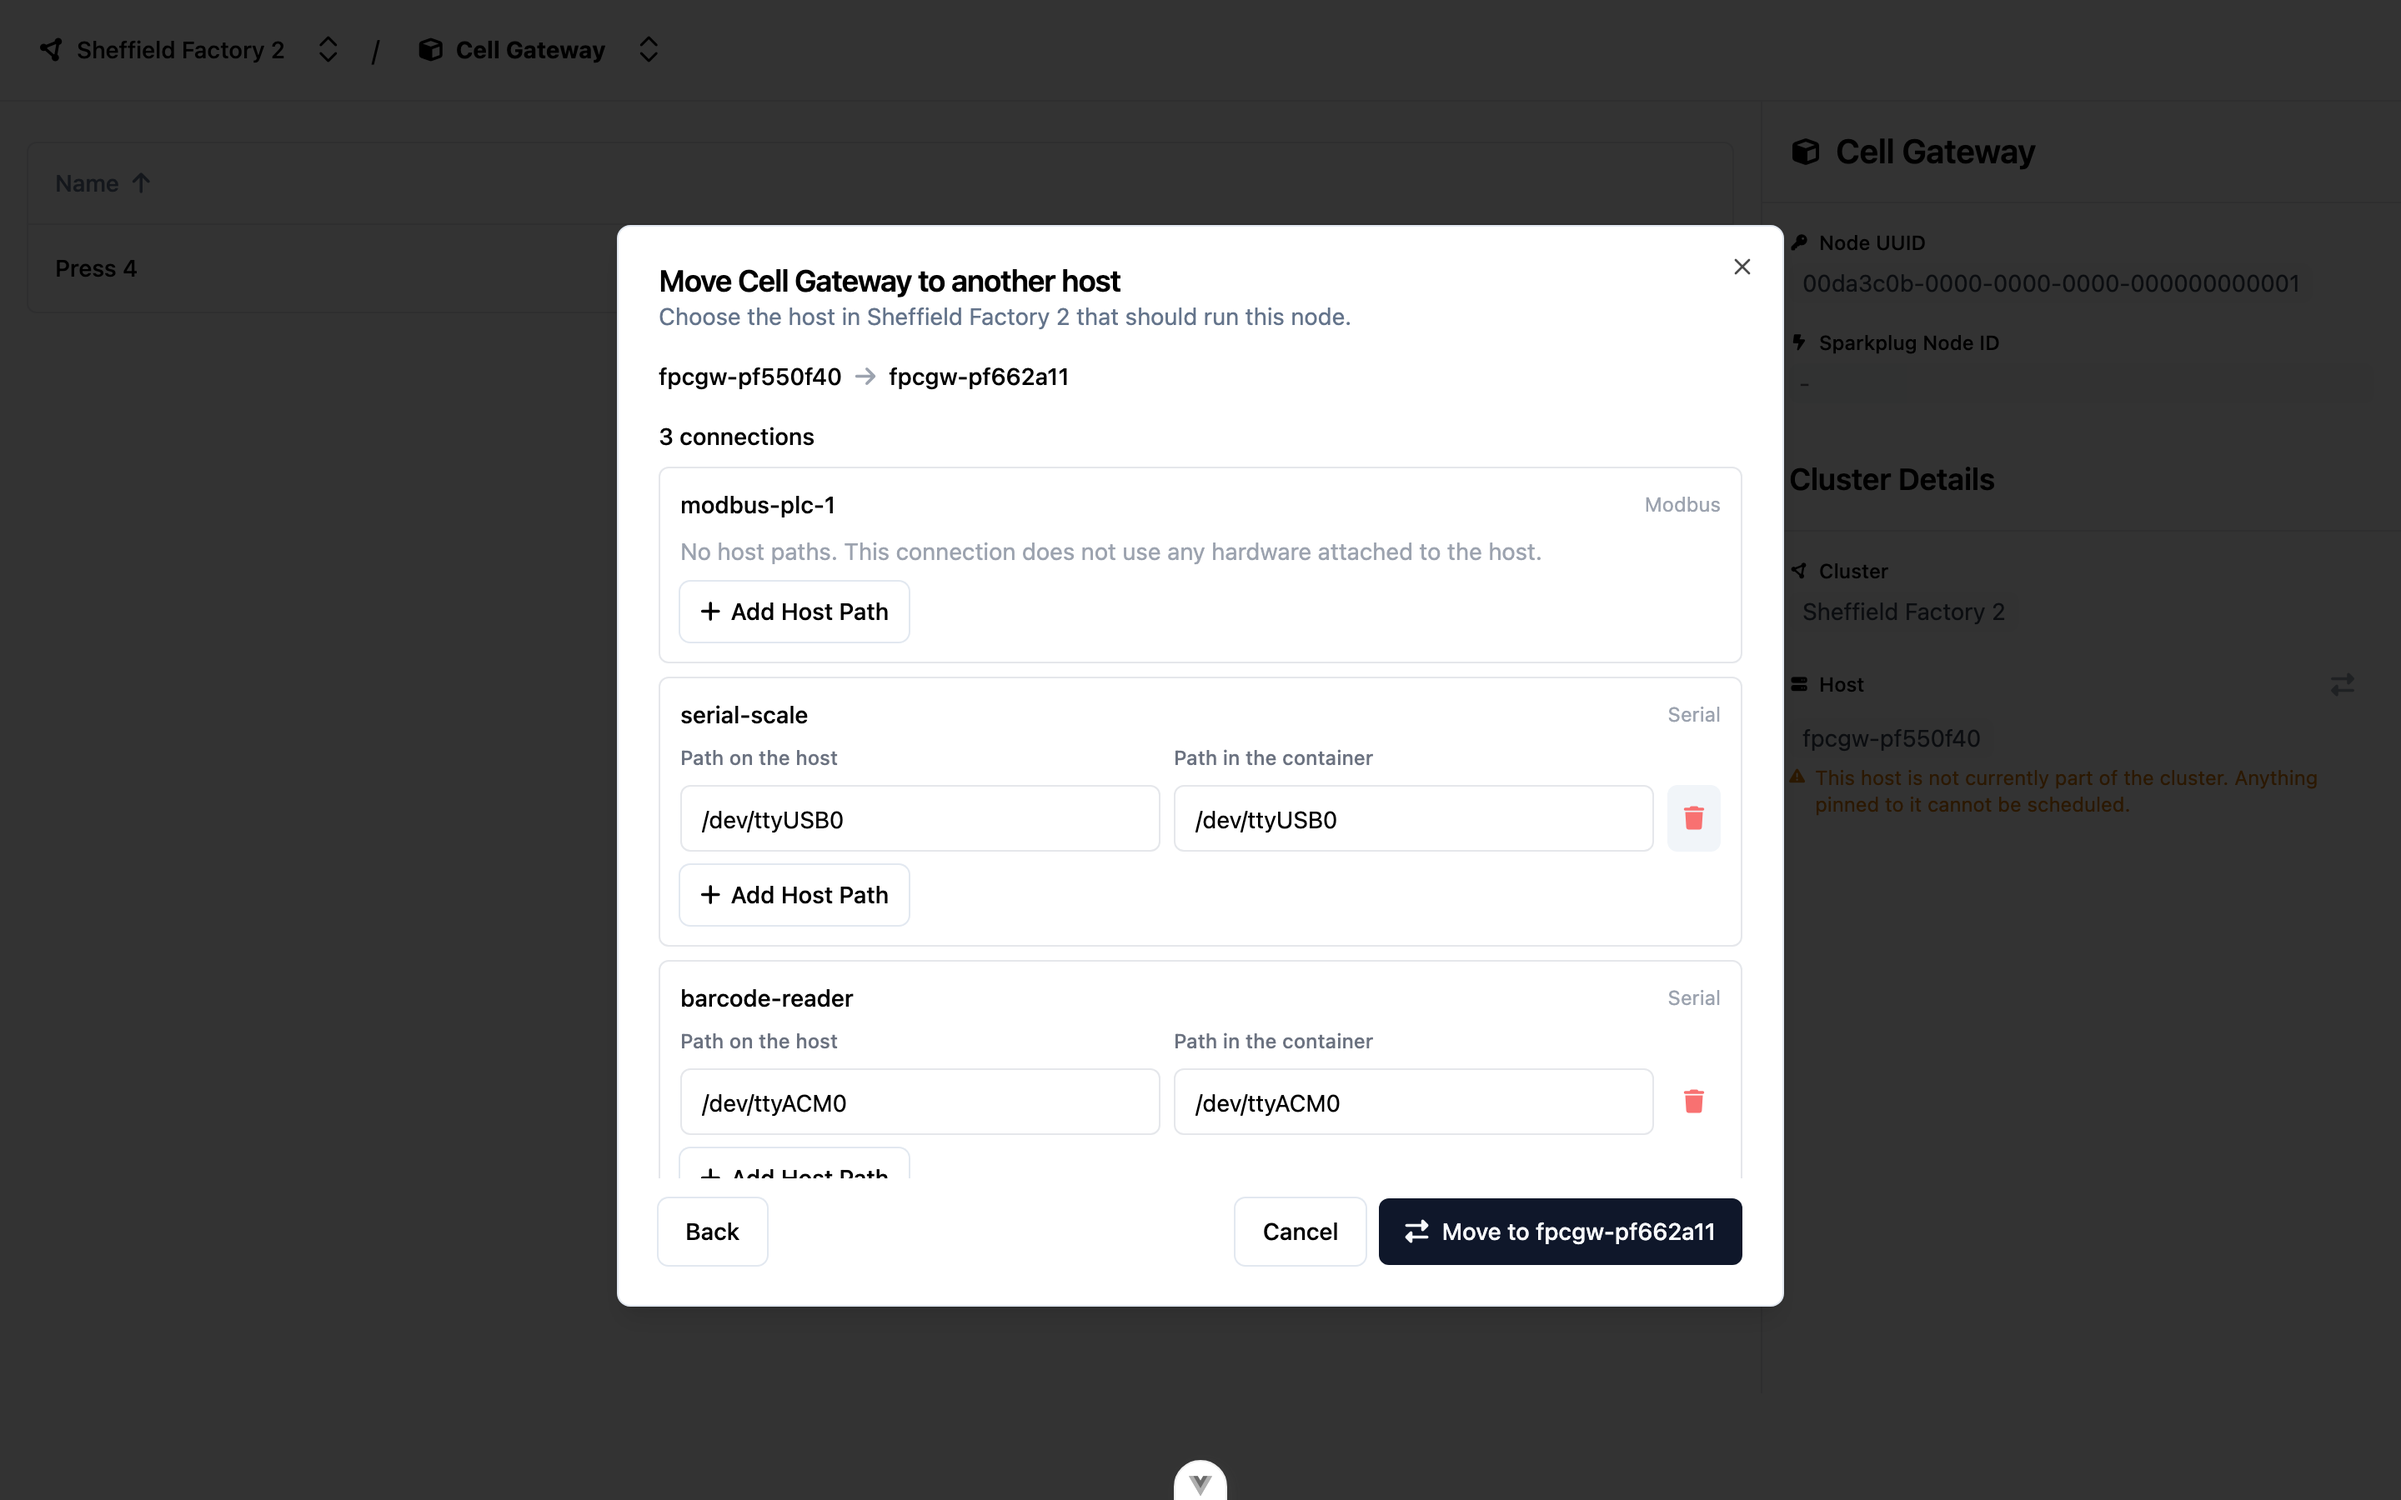
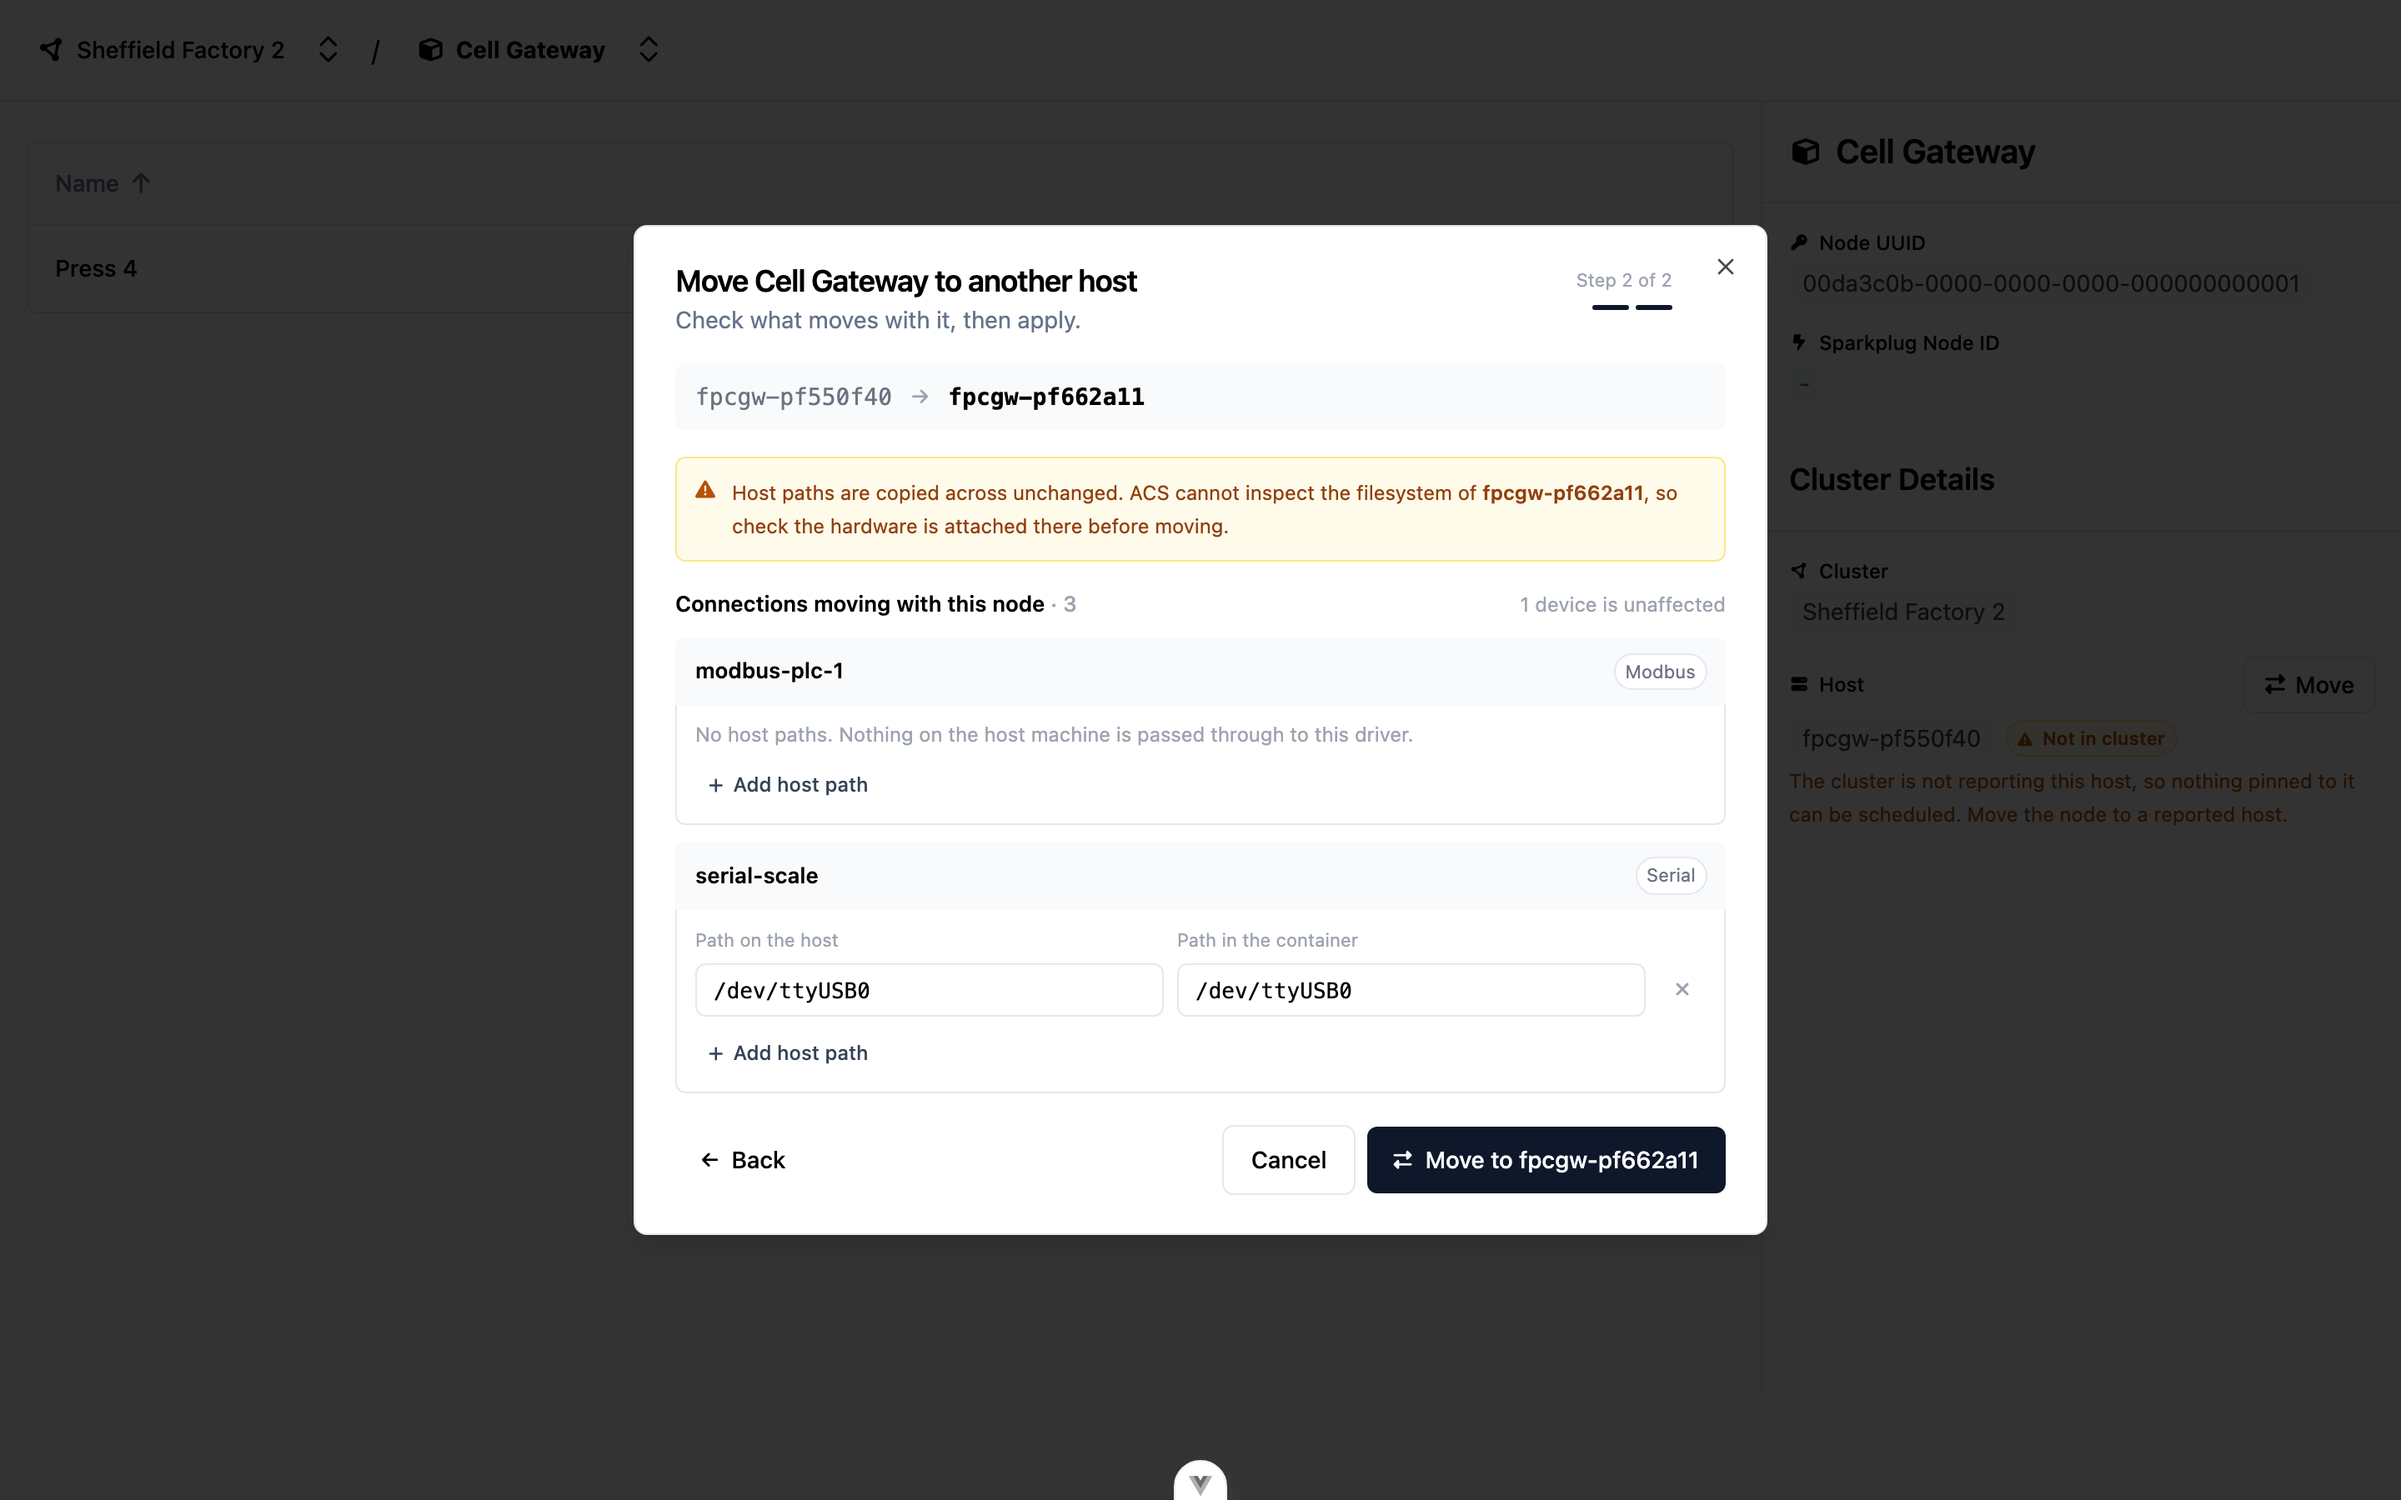
Docs: refresh the move-host screenshots for the new design

diff --git a/docs/architecture/edge-management/edge-deployments.md b/docs/architecture/edge-management/edge-deployments.md
@@ -84,11 +84,12 @@ affected: they follow the node.
 
 ![Reviewing what moves](../../assets/edge-clusters/move-host/03-move-step2-review.png)
 
-The node keeps its UUID, its Sparkplug Node-ID and everything defined
-under it. Its Edge Agent will go offline and rebirth as Kubernetes
-reschedules it onto the new host.
+Applying it closes the dialog and updates the Host detail. The node keeps
+its UUID, its Sparkplug Node-ID and everything defined under it; its Edge
+Agent will go offline and rebirth as Kubernetes reschedules it onto the
+new host.
 
-![The move completing](../../assets/edge-clusters/move-host/06-move-step3-done.png)
+![The host detail after the move](../../assets/edge-clusters/move-host/06-after-move-toast.png)
 
 Host paths can also be edited on their own, from the connection dialog.
 
